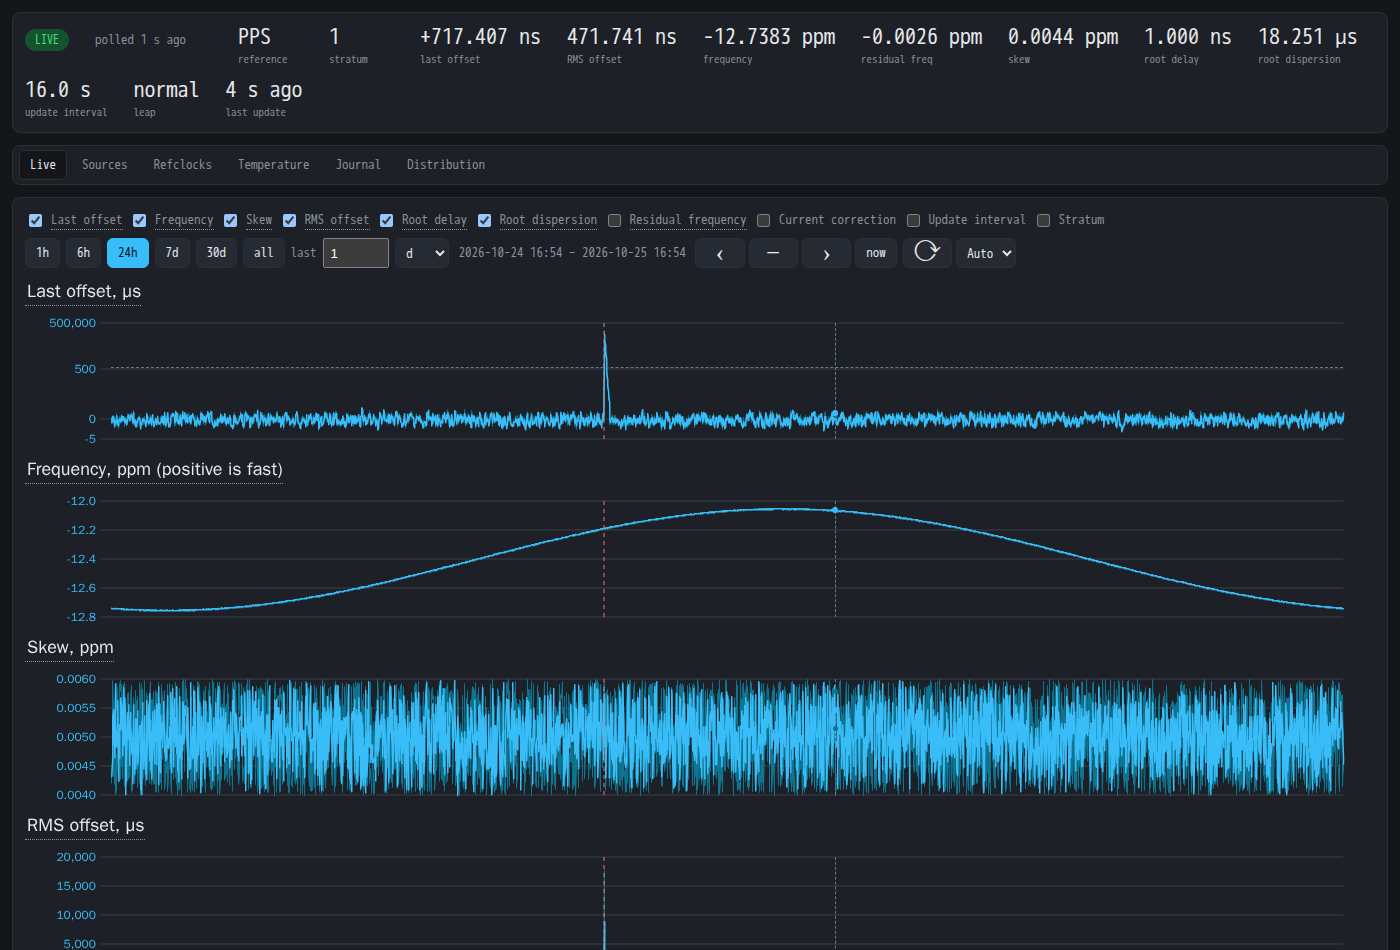
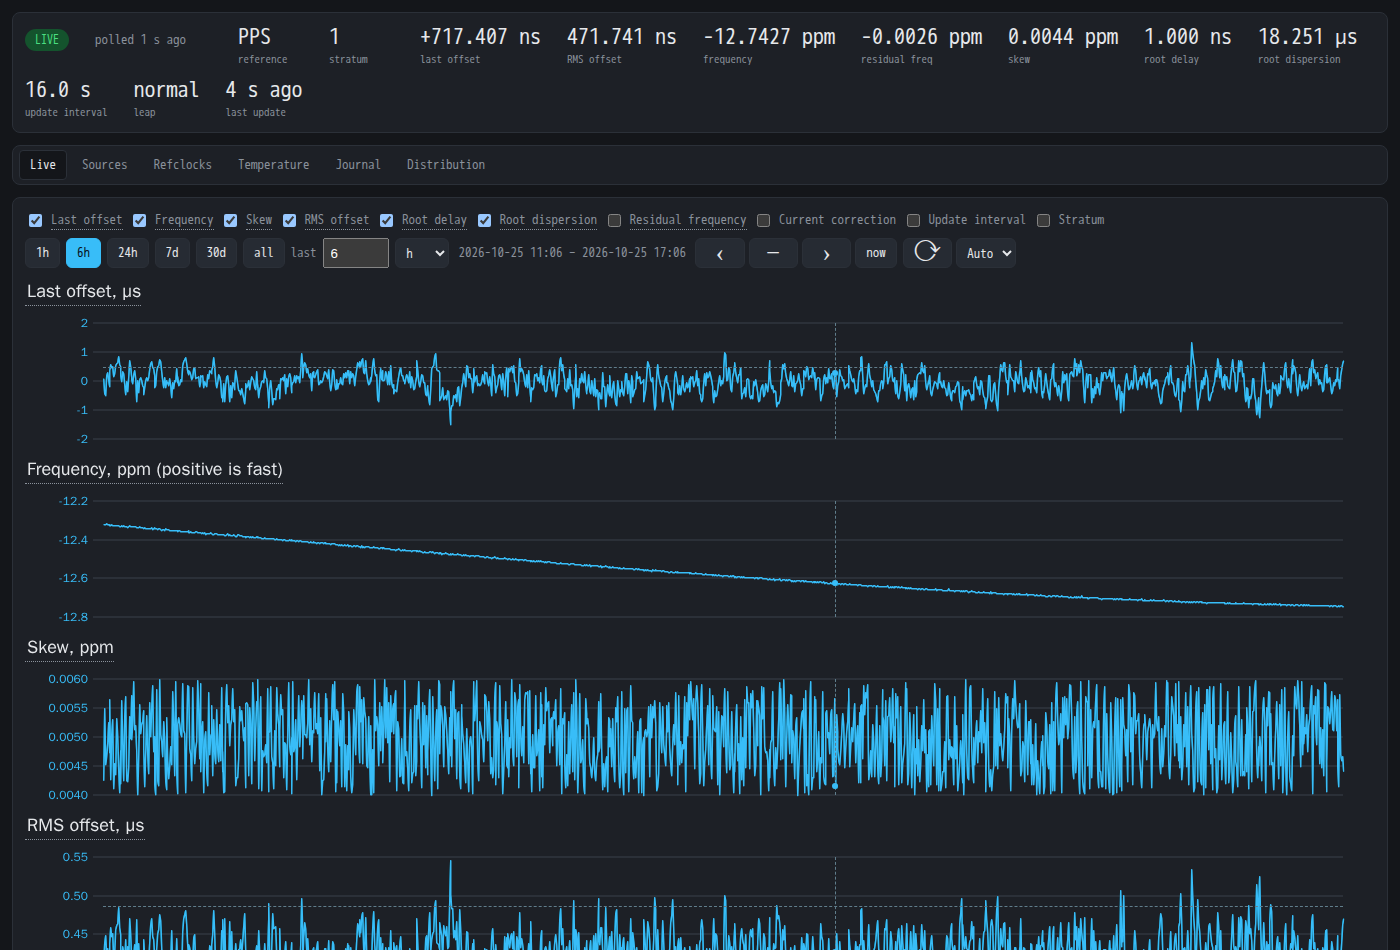
Shoot six hours, not a day
Six quiet hours after the synthetic run's step.

diff --git a/README.md b/README.md
@@ -6,13 +6,13 @@ sources into SQLite, and a browser view that charts it live.
 Early days: see `PLAN.md` for the design and the phases, and
 `RELEASING.md` for how a release is made.
 
-![The live page: a day of the clock's offset, frequency and skew, and the step the synthetic clock takes](docs/images/web-live.png)
+![The live page: six hours of the clock's offset, frequency and skew](docs/images/web-live.png)
 
 | Sources | Refclocks |
 | - | - |
-| ![The sources page: each source as last reported, and every source's offset, delay and frequency over a day](docs/images/web-sources.png) | ![The refclocks page: a day of each refclock's offsets from refclocks.log](docs/images/web-refclocks.png) |
+| ![The sources page: each source as last reported, and every source's offset, delay and frequency over six hours](docs/images/web-sources.png) | ![The refclocks page: six hours of each refclock's offsets from refclocks.log](docs/images/web-refclocks.png) |
 | **Temperature** | **Distribution** |
-| ![The temperature page: tempcomp's temperature and compensation over a day, and the clock's frequency](docs/images/web-temperature.png) | ![The distribution page: a histogram and percentiles of a day's offsets](docs/images/web-distribution.png) |
+| ![The temperature page: tempcomp's temperature and compensation over six hours, and the clock's frequency](docs/images/web-temperature.png) | ![The distribution page: a histogram and percentiles of six hours' offsets](docs/images/web-distribution.png) |
 
 Shown from the synthetic database below; `make screenshots` takes
 them again.
